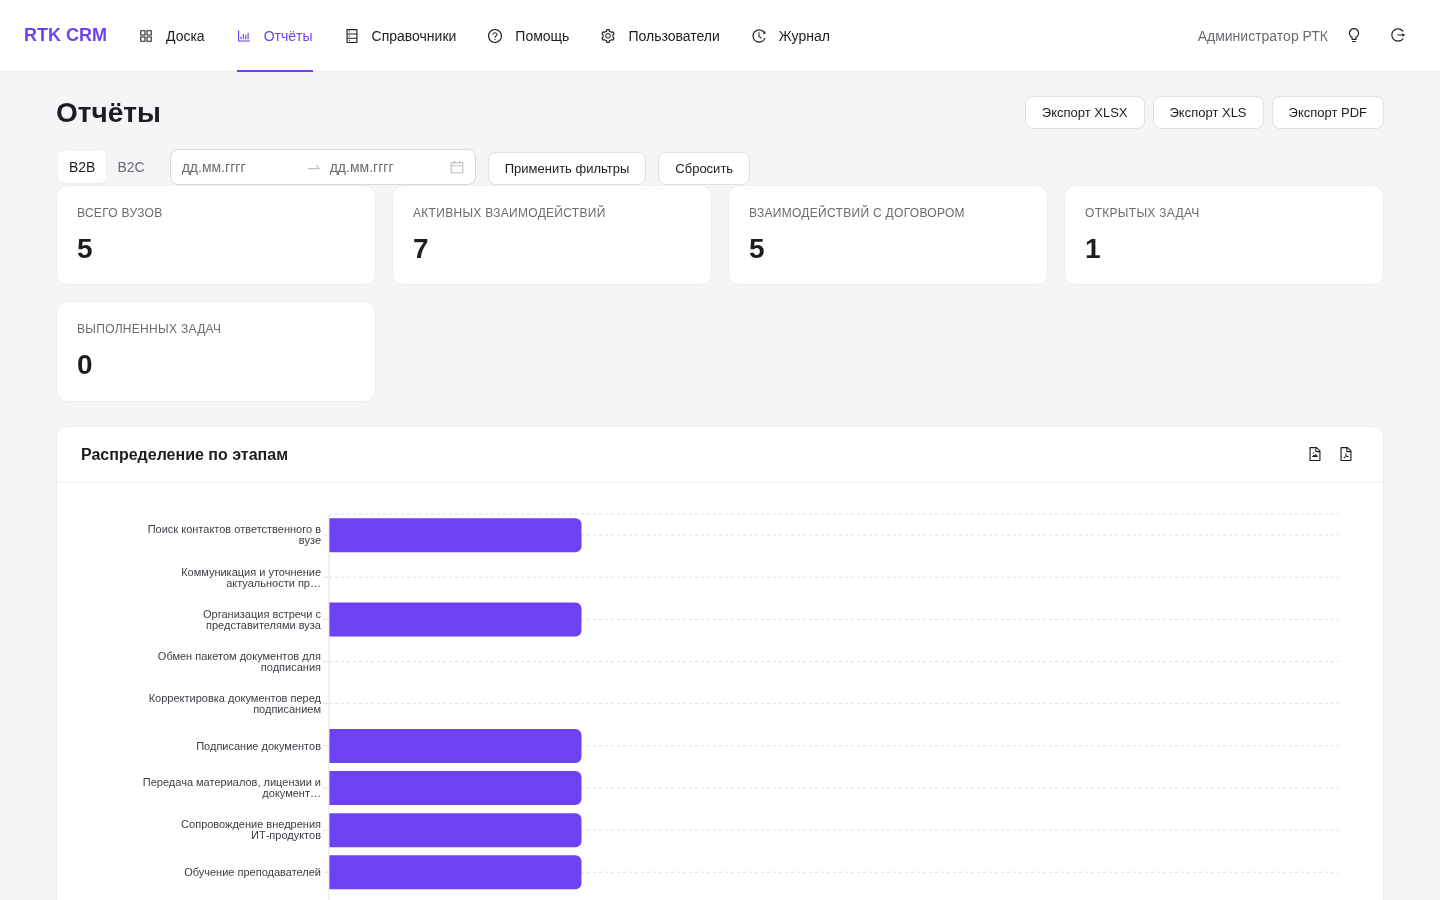
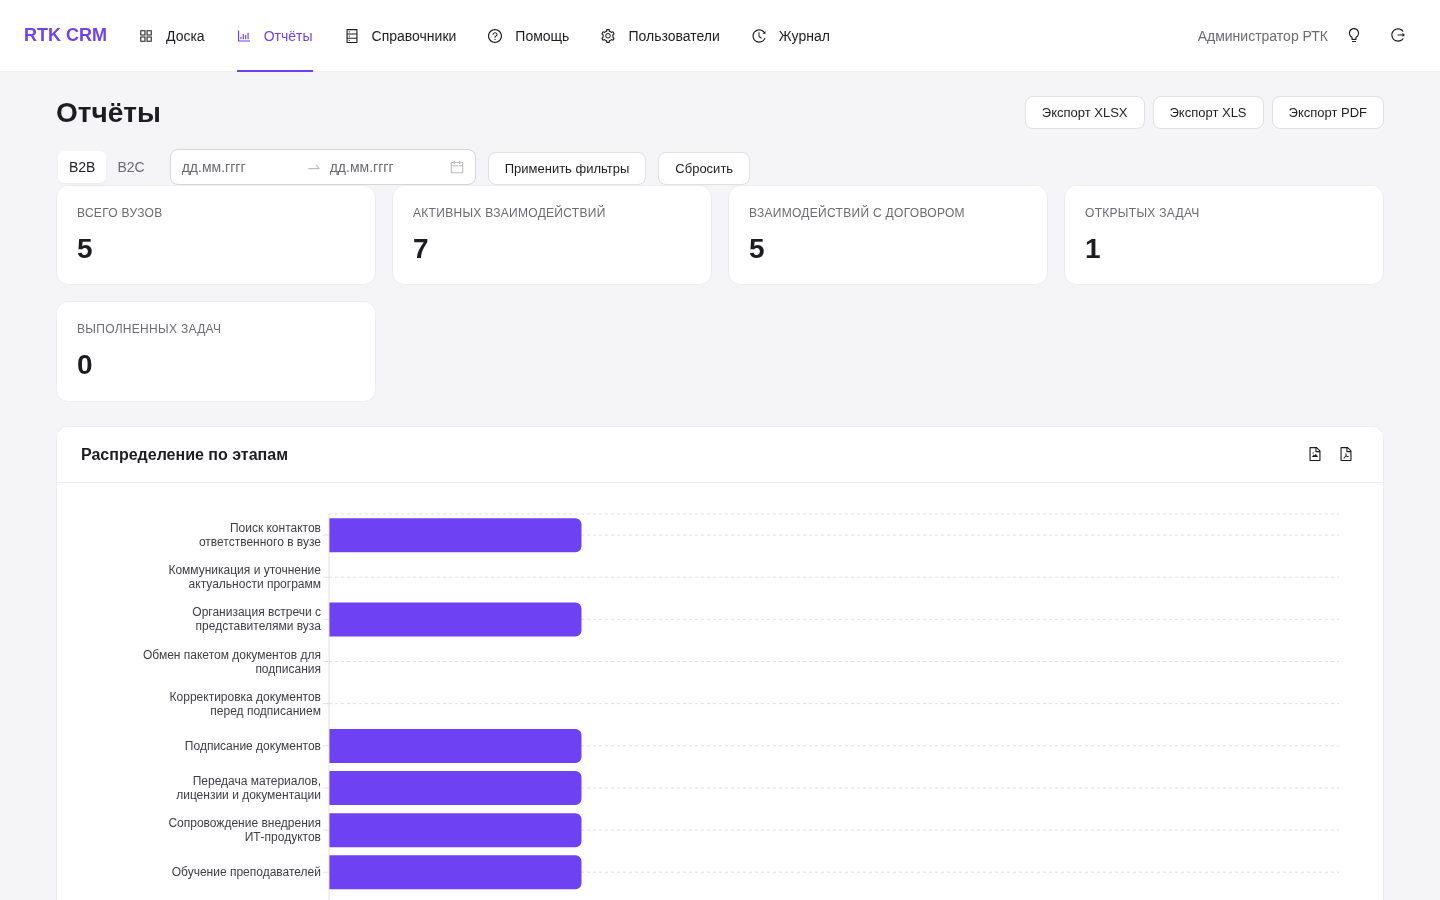
fix(ui): починить таблицы документации и график этапов на узких экранах
Помощь/Архитектура:
- GFM-таблица была шире колонки (338px при 198px на экране 320px, 490px
  при 434px на 768px) и из-за body { overflow-x: hidden } обрезалась по
  правому краю — последняя колонка была недостижима. Таблица переведена
  в блочный контейнер с собственной горизонтальной прокруткой: колонки
  остаются целыми, страница вбок не скроллится. Правило действует на
  всех ширинах, на широком экране прокрутка не появляется;
- white-space: nowrap у th задавал таблице ширину по самому длинному
  заголовку и распирал её — на узких экранах заголовки переносятся;
- длинные токены без пробелов (пути backend/services/..., URL) не имели
  точек переноса: на 320px токен занимал 251px при 198px доступной
  ширины. Добавлен overflow-wrap: break-word.

Отчёты, график «Распределение по этапам»:
- закругление столбцов на мобильном было задано как [6, 6, 0, 0] и
  скругляло основание вместо вершины — исправлено на [0, 6, 6, 0];
- подпись этапа обрезалась до 14 символов, по «Коммуникация и…» нельзя
  было понять этап. Добавлен перенос по словам (до 4 строк по 18
  символов на узких экранах, 2 по 28 на широких), многоточие остаётся
  только крайней мерой;
- ось Y сужена до 128px, высота контейнера считается по числу этапов
  (62px на строку), иначе подписи накладывались друг на друга.

Проверено на 320/360/390/768/1440 px в светлой и тёмной темах:
горизонтального скролла и обрезанных подписей нет. Скриншот страницы
отчётов переснят, зеркало frontend/public/docs синхронизировано.

Changed region(s): [[0.0938, 0.56, 0.2188, 0.9333], [0.125, 0.9644, 0.2188, 0.9956]]

diff --git a/frontend/src/pages/ReportPage.tsx b/frontend/src/pages/ReportPage.tsx
@@ -34,6 +34,66 @@ const RADIAN = Math.PI / 180;
 // Сектора уже 5% слишком тонкие для подписи внутри — выносим их с выноской.
 const SMALL_SLICE = 0.05;
 
+/** Разбивает название этапа на строки по словам.
+ *
+ * На телефоне подпись оси обрезалась до 14 символов, и по «Коммуникация и…»
+ * нельзя было понять этап. Перенос по словам сохраняет текст читаемым;
+ * `…` остаётся только как крайняя мера, если строки не вмещают название. */
+function wrapLabel(text: string, perLine: number, maxLines: number): string[] {
+  const lines: string[] = [];
+  let current = '';
+  for (const word of text.split(' ')) {
+    const candidate = current ? `${current} ${word}` : word;
+    if (!current || candidate.length <= perLine) {
+      current = candidate;
+    } else {
+      lines.push(current);
+      current = word;
+    }
+  }
+  if (current) lines.push(current);
+  if (lines.length <= maxLines) return lines;
+  const kept = lines.slice(0, maxLines);
+  const last = kept[maxLines - 1];
+  kept[maxLines - 1] = `${last.slice(0, Math.max(1, perLine - 1))}…`;
+  return kept;
+}
+
+interface StageTickProps {
+  x?: number;
+  y?: number;
+  payload?: { value?: string | number };
+  lines: number;
+  perLine: number;
+}
+
+/** Подпись этапа на оси Y: до `lines` строк по `perLine` символов. */
+function StageTick({ x = 0, y = 0, payload, lines, perLine }: StageTickProps) {
+  const parts = wrapLabel(String(payload?.value ?? ''), perLine, lines);
+  const lineHeight = 14;
+  const offset = ((parts.length - 1) * lineHeight) / 2;
+  return (
+    <text
+      x={x}
+      y={y}
+      textAnchor="end"
+      fill="var(--atmr-fg-subtle)"
+      fontSize={12}
+    >
+      {parts.map((part, index) => (
+        <tspan
+          key={index}
+          x={x}
+          y={y - offset + index * lineHeight}
+          dominantBaseline="central"
+        >
+          {part}
+        </tspan>
+      ))}
+    </text>
+  );
+}
+
 // Recharts подставляет собственные цвета осей (#666), не зная о теме: на
 // тёмном фоне это 2.83:1. Задаём цвет явно токеном для обеих тем.
 const AXIS_TICK = { fill: 'var(--atmr-fg-subtle)' } as const;
@@ -112,6 +172,9 @@ function ProductSliceLabel({
 export default function ReportPage() {
   const device = useDevice();
   const isMobile = device === 'mobile';
+  // Планшет: сайдбар сужает колонку, поэтому узкая ось и перенос подписей
+  // нужны не только на телефоне (на 768px подпись не вмещалась в 42 символа).
+  const isCompactAxis = device !== 'desktop';
   const [exporting, setExporting] = useState<string | null>(null);
   const [draftDates, setDraftDates] = useState<DateRangeValue>({});
   const [filters, setFilters] = useState<ReportFilters>({});
@@ -285,8 +348,8 @@ export default function ReportPage() {
             data-chart-export="report-by-stage"
             className="chart-container report-stage-chart"
             style={{
-              height: isMobile
-                ? Math.max(420, data.by_stage.length * 38)
+              height: isCompactAxis
+                ? Math.max(420, data.by_stage.length * 62)
                 : stageChartHeight,
               background: 'var(--atmr-bg-container)',
             }}
@@ -317,15 +380,16 @@ export default function ReportPage() {
                 <YAxis
                   type="category"
                   dataKey="name"
-                  width={isMobile ? 132 : 240}
-                  tick={{ ...AXIS_TICK, fontSize: 12 }}
+                  width={isCompactAxis ? 128 : 240}
+                  tick={
+                    isCompactAxis ? (
+                      <StageTick lines={4} perLine={18} />
+                    ) : (
+                      <StageTick lines={2} perLine={28} />
+                    )
+                  }
                   stroke="var(--atmr-border-default)"
                   interval={0}
-                  tickFormatter={(value: string) =>
-                    value.length > (isMobile ? 16 : 42)
-                      ? `${value.slice(0, isMobile ? 14 : 40)}…`
-                      : value
-                  }
                 />
                 <Tooltip
                   contentStyle={TOOLTIP_STYLE}
@@ -338,7 +402,7 @@ export default function ReportPage() {
                 <Bar
                   dataKey="count"
                   fill="var(--atmr-accent-default)"
-                  radius={isMobile ? [6, 6, 0, 0] : [0, 6, 6, 0]}
+                  radius={[0, 6, 6, 0]}
                 />
               </BarChart>
             </ResponsiveContainer>

diff --git a/frontend/src/index.css b/frontend/src/index.css
@@ -968,6 +968,10 @@ img, svg, canvas, video, table { max-width: 100%; }
   background: var(--atmr-bg-soft);
   color: var(--atmr-fg-default);
   font-size: 12.5px;
+  /* Длинные токены без пробелов (пути `backend/services/...`, URL) не имеют
+     точек переноса и вылезали за карточку: на экране 320px такой токен
+     занимал 251px при 198px доступной ширины. Разрешаем перенос по символам. */
+  overflow-wrap: break-word;
 }
 
 .help-doc blockquote {
@@ -1001,4 +1005,34 @@ img, svg, canvas, video, table { max-width: 100%; }
   background: var(--atmr-bg-dropzone);
   border-color: transparent;
   color: var(--atmr-accent-default);
+}
+
+/* ═══════ ТАБЛИЦЫ ДОКУМЕНТАЦИИ НА УЗКИХ ЭКРАНАХ ═══════
+   GFM-таблица шире колонки: в «Архитектуре» она занимает 338px при 198px
+   полезной ширины на экране 320px, а на планшете 768px — 490px при 434px.
+   Так как у body стоит overflow-x: hidden, правый край не прокручивался, а
+   обрезался — последняя колонка была недостижима. Переводим таблицу в
+   блочный контейнер с собственной горизонтальной прокруткой: колонки
+   остаются целыми и читаемыми, а страница по-прежнему не скроллится вбок.
+   Правило действует на всех ширинах: на широком экране содержимое
+   помещается, прокрутка не появляется, и вид таблицы не меняется. */
+.help-doc table {
+  display: block;
+  overflow-x: auto;
+  -webkit-overflow-scrolling: touch;
+  max-width: 100%;
+}
+
+@media (max-width: 767px) {
+  /* Заголовки больше не удерживаются в одну строку: white-space: nowrap
+     задавал таблице ширину по самому длинному заголовку и распирал её. */
+  .help-doc th {
+    white-space: normal;
+  }
+
+  .help-doc th,
+  .help-doc td {
+    padding: 6px 8px;
+    font-size: 12.5px;
+  }
 }
